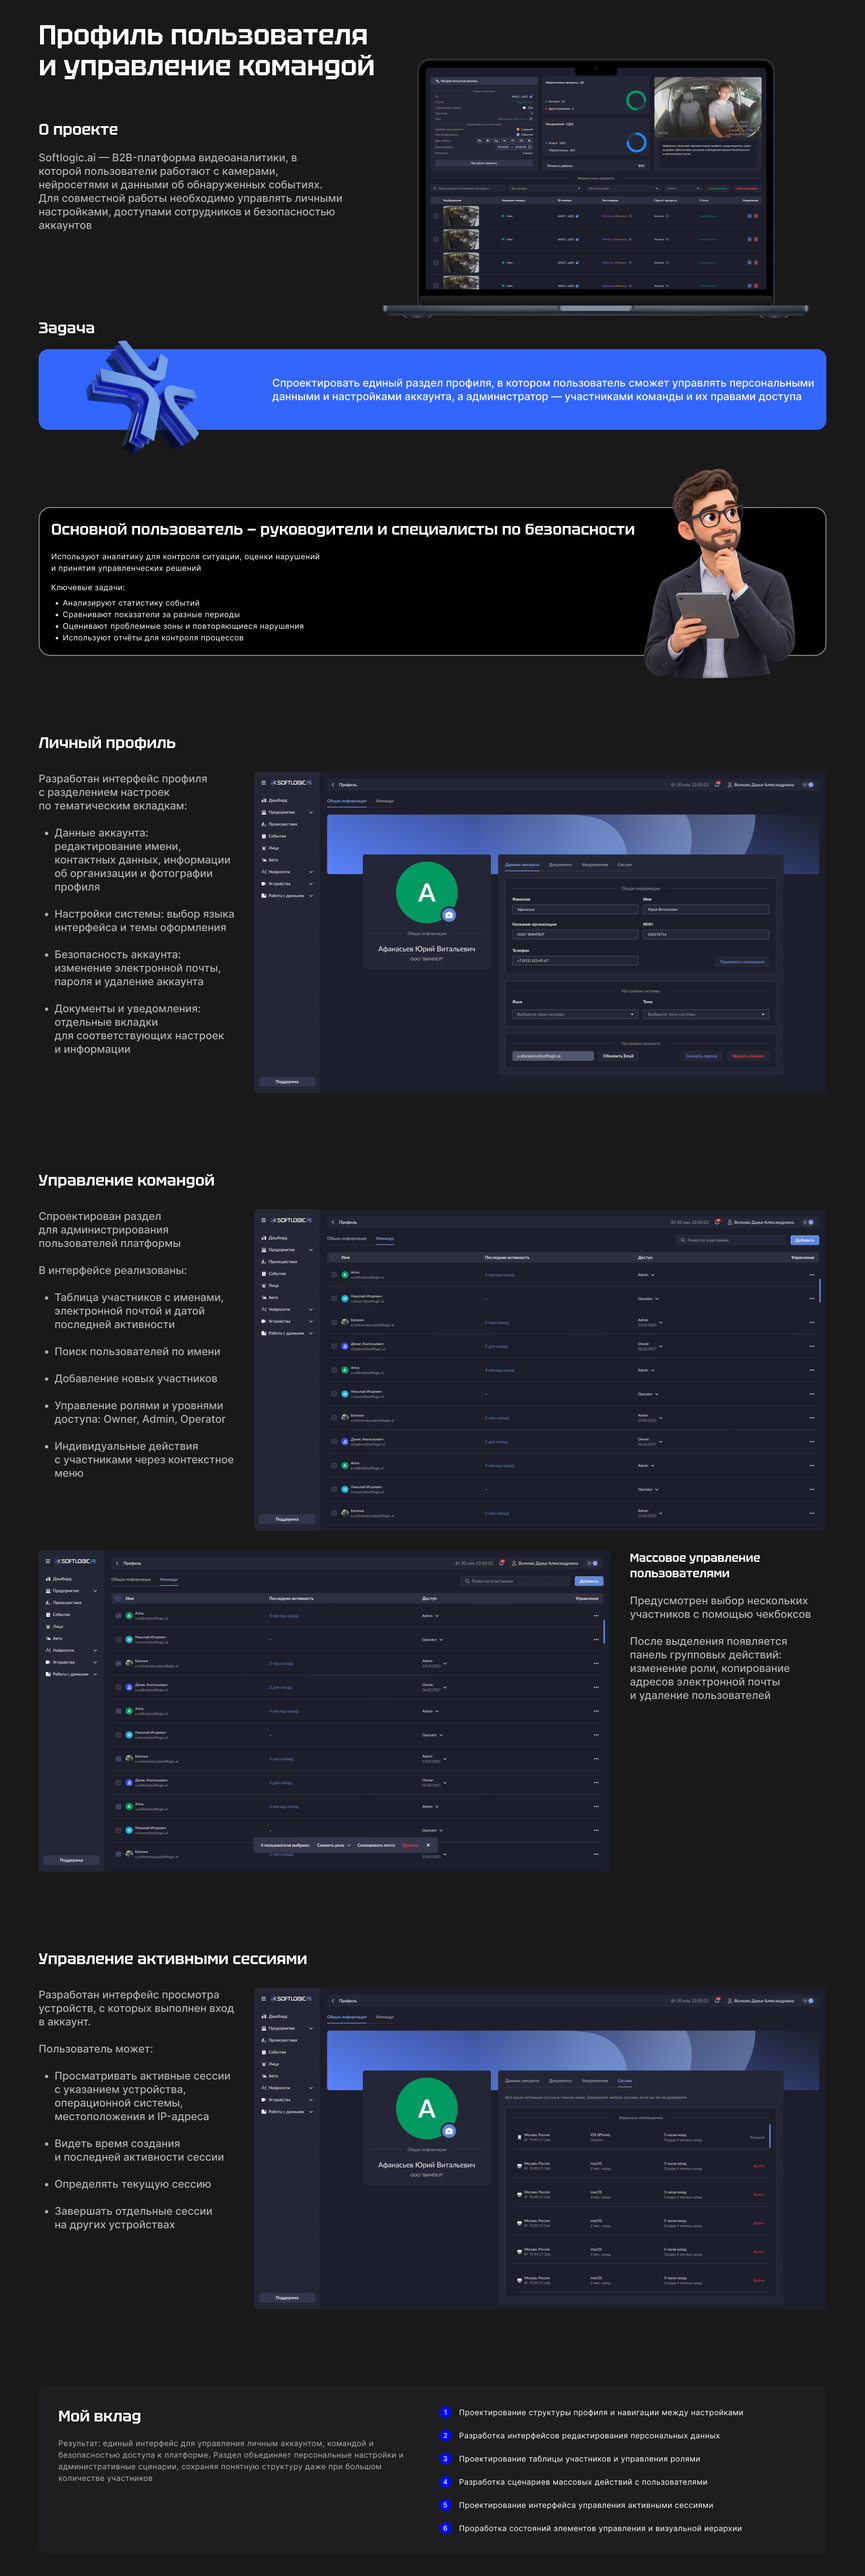
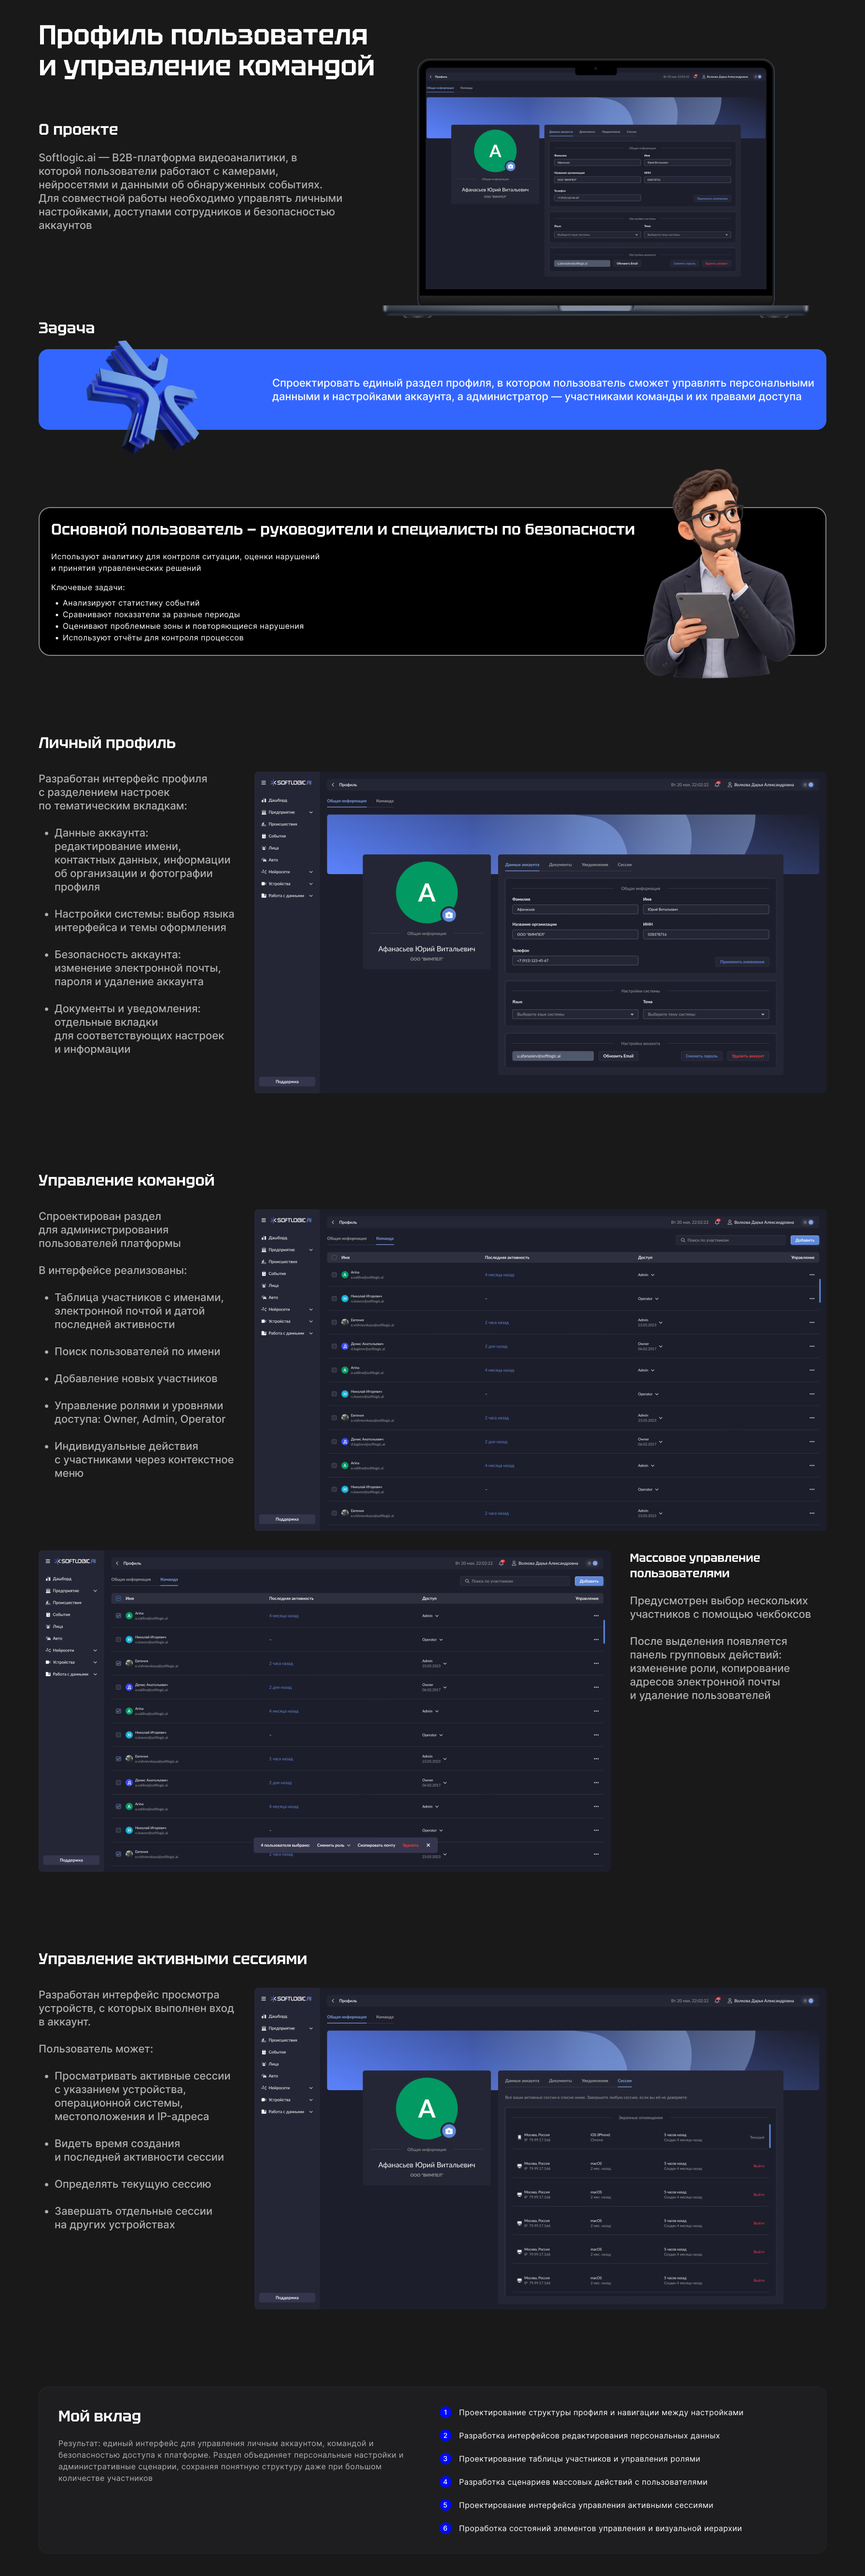
Implement new Figma mobile screens

Changed region(s): [[0.4688, 0.0311, 0.9062, 0.1245]]

diff --git a/portfolio-work/app/work/[slug]/page.tsx b/portfolio-work/app/work/[slug]/page.tsx
@@ -55,6 +55,7 @@ const softlogicCards=[
 ];
 
 function SoftlogicCase(){return <main className={styles.softlogicPage}>
+  <div className={styles.softMobileFrame}><div className={styles.caseNav}><SiteHeader/></div><img src="/portfolio/case-softlogic-mobile.png" alt="Softlogic.AI. Мобильная версия кейса из Figma"/><div className={styles.softMobileLinks}>{softlogicCards.map(([slug,title],index)=><Link href={`/work/softlogic-ai?detail=${slug}`} scroll={false} aria-label={title} key={slug} style={{top:`${76.22+index*3.724}%`}}/>)}</div></div>
   <section className={styles.softHero}><div className="container"><SiteHeader/><div className={styles.softTitle}><h1>Softlogic.AI</h1><h2>{nbsp('B2B-платформа видеоаналитики на основе компьютерного зрения')}</h2><div>{['Product design','B2B / Enterprise','UX/UI Design','Computer Vision','Data Visualization'].map((tag,index)=><span className={index<2?styles.blueTag:undefined} key={tag}>{tag}</span>)}</div></div><div className={styles.softAbout}><div className={styles.laptop}><img src="/portfolio/softlogic-laptop.png" alt="Интерфейс платформы Softlogic.AI на экране ноутбука"/></div><h3>{nbsp('О проекте')}</h3><div><p>{nbsp('Softlogic.ai разрабатывала решения на основе компьютерного зрения для автоматизации мониторинга и анализа видеопотока')}</p><p>{nbsp('Платформа позволяла подключать камеры, обрабатывать видеоданные с помощью нейросетей, обнаруживать события и работать с результатами видеоаналитики через интерфейс системы')}</p><p>{nbsp('На базе единой платформы создавались решения для разных бизнес-задач: от распознавания лиц и контроля зон до мониторинга поведения водителей и безопасности на производстве.')}</p><p>{nbsp('В зависимости от потребностей клиента использовался определённый набор функциональных возможностей платформы')}</p><div className={styles.softMeta}><div><strong>Роль</strong><span>Продуктовый дизайнер</span><span>UX-исследователь</span></div><div><strong>Инструменты</strong><span>Figma</span><span>FigJam</span><span>Notion</span></div><div><strong>Scope</strong><span>Исследование</span><span>Прототип</span><span>UX-тесты</span></div></div></div></div></div></section>
   <section className={`container ${styles.softSection}`}><h2>{nbsp('Контекст и бизнес-задача')}</h2><div className={styles.contextBlock}><div><p>{nbsp('Компьютерное зрение позволяет автоматически анализировать видеопоток и выявлять события, которые человеку пришлось бы отслеживать вручную')}</p><p>{nbsp('Однако обнаружение события — только часть процесса. Пользователю также необходимо понять, что произошло, проверить результат распознавания, найти источник события и при необходимости изучить видеозапись или данные объекта')}</p><p>{nbsp('При этом сценарии использования платформы различались в зависимости от отрасли и задач клиента')}</p><p>{nbsp('Задача проекта заключалась в создании масштабируемой UX/UI-архитектуры платформы.')}</p></div><img src="/portfolio/softlogic-context-visual.png" alt="Интерфейс видеоаналитики Softlogic.AI"/></div></section>
   <section className={`container ${styles.softSection}`}><h2>Пользователи</h2><img className={`${styles.wideAsset} ${styles.desktopAsset}`} src="/portfolio/softlogic-users.png" alt="Операторы мониторинга, руководители и специалисты по безопасности, технические специалисты и администраторы"/><div className={`${styles.mobileSlices} ${styles.userSlices}`} aria-label="Пользователи платформы"><span/><span/><span/></div></section>
@@ -66,7 +67,7 @@ function SoftlogicCase(){return <main className={styles.softlogicPage}>
 
 function FigmaFrameCase({slug,title}:{slug:'smart-city'|'idm'|'reporting';title:string}){
   const desktop=`/portfolio/case-${slug}.png`;
-  return <main className={styles.figmaCase} aria-label={title}><div className={styles.caseNav}><SiteHeader/></div><picture>{slug==='smart-city'&&<source media="(max-width: 600px)" srcSet="/portfolio/case-smart-city-mobile.png"/>}<img src={desktop} alt={`${title}. Полный кейс из Figma`}/></picture><Link className={styles.caseHomeLink} href="/" aria-label="Вернуться на главную"/><nav className={styles.caseFooterLinks} aria-label="Навигация в футере"><Link href="/">Главная</Link><Link href="/#about">Резюме</Link><Link href="/#contacts">Контакты</Link></nav></main>;
+  return <main className={styles.figmaCase} aria-label={title}><div className={styles.caseNav}><SiteHeader/></div><picture>{slug==='smart-city'&&<source media="(max-width: 600px)" srcSet="/portfolio/case-smart-city-mobile.png"/>}{slug==='reporting'&&<source media="(max-width: 600px)" srcSet="/portfolio/case-reporting-mobile.png"/>}<img src={desktop} alt={`${title}. Полный кейс из Figma`}/></picture><Link className={styles.caseHomeLink} href="/" aria-label="Вернуться на главную"/><nav className={styles.caseFooterLinks} aria-label="Навигация в футере"><Link href="/">Главная</Link><Link href="/#about">Резюме</Link><Link href="/#contacts">Контакты</Link></nav></main>;
 }
 
 export default async function WorkPage({params}:{params:Promise<{slug:string}>}){

diff --git a/portfolio-work/components/Drawer.tsx b/portfolio-work/components/Drawer.tsx
@@ -29,12 +29,15 @@ export function Drawer() {
   const assets:Record<string,string>={
     'face-recognition':'/portfolio/drawer-face-recognition.png','camera-management':'/portfolio/drawer-camera-management.png','video-analytics':'/portfolio/drawer-video-analytics.png','report-builder':'/portfolio/drawer-report-builder.png','user-profile':'/portfolio/drawer-user-profile.png'
   };
+  const mobileAssets:Record<string,string>={
+    'face-recognition':'/portfolio/drawer-face-recognition-mobile.png','camera-management':'/portfolio/drawer-camera-management-mobile.png','video-analytics':'/portfolio/drawer-video-analytics-mobile.png','report-builder':'/portfolio/drawer-report-builder-mobile.png','user-profile':'/portfolio/drawer-user-profile-mobile.png'
+  };
   const close=()=>router.replace(pathname,{scroll:false});
   return <div className={styles.backdrop} onMouseDown={(e)=>{if(e.target===e.currentTarget)close()}}>
     <section id="project-drawer" className={`${styles.panel} ${styles.figmaPanel}`} role="dialog" aria-modal="true" aria-labelledby="drawer-title" aria-describedby="drawer-description">
       <h2 id="drawer-title" className={styles.srOnly}>{item.title}</h2><p id="drawer-description" className={styles.srOnly}>{item.lead}</p>
       <header className={styles.figmaHeader}><span>КЕЙСЫ&nbsp;&nbsp;/&nbsp;&nbsp;SOFTLOGIC.AI&nbsp;&nbsp;/&nbsp;&nbsp;<strong>{item.title}</strong></span><button ref={closeRef} className={styles.figmaClose} onClick={close} aria-label="Закрыть кейс"><X size={22}/></button></header>
-      <div className={styles.figmaScroll}><img className={styles.figmaScreen} src={assets[item.slug]} alt={`${item.title}. Экран кейса из Figma`}/></div>
+      <div className={styles.figmaScroll}><picture><source media="(max-width: 760px)" srcSet={mobileAssets[item.slug]}/><img className={styles.figmaScreen} src={assets[item.slug]} alt={`${item.title}. Экран кейса из Figma`}/></picture></div>
       <footer className={styles.figmaFooter}><button onClick={()=>router.replace(`${pathname}?detail=${next.slug}`,{scroll:false})} aria-label={`Следующий кейс: ${next.title}`}>СЛЕДУЮЩИЙ КЕЙС</button><span>{next.title}</span></footer>
     </section>
   </div>;

diff --git a/portfolio-work/app/work/[slug]/page.module.css b/portfolio-work/app/work/[slug]/page.module.css
@@ -10,3 +10,5 @@
 @media(max-width:900px){.softSection{overflow:visible}.wideAsset{width:100%;min-width:0}.softCards{grid-template-columns:1fr;overflow:visible;gap:20px}.softCards a,.softCards img{width:100%}.contextBlock{grid-template-columns:1fr}.contextBlock>img{height:auto;min-height:280px}.softMeta{gap:20px}.footer{padding-bottom:110px}}
 .mobileSlices{display:none}.roleCard{display:grid;grid-template-columns:1fr 1fr;gap:38px 72px;padding:48px 64px;border-radius:20px;background:linear-gradient(105deg,#202044 0%,#202024 55%,#1010e8 100%)}.roleCard h2{grid-column:1/-1;margin:0;font:600 36px/1.1 var(--font-heading)}.roleCard p{margin:0 0 18px;line-height:1.45}.roleCard ul{margin:0;padding-left:20px;line-height:1.65}.roleCard li::marker{color:#1530ff}
 @media(max-width:900px){.desktopAsset{display:none}.mobileSlices{display:grid;grid-template-columns:1fr;gap:14px}.mobileSlices span{display:block;width:100%;border-radius:14px;background-repeat:no-repeat;background-color:#111}.mobileSlices span:nth-child(1){background-position:left center}.mobileSlices span:nth-child(2){background-position:center center}.mobileSlices span:nth-child(3){background-position:right center}.userSlices span{aspect-ratio:1.08;background-image:url('/portfolio/softlogic-users.png');background-size:300% 100%}.flowSlices span{aspect-ratio:1.55;background-image:url('/portfolio/softlogic-flow.png');background-size:300% 100%}.roleCard{grid-template-columns:1fr;gap:10px;padding:28px 22px}.roleCard h2{grid-column:auto;font-size:30px;margin-bottom:14px}.roleCard p,.roleCard li{font-size:14px}}
+.softMobileFrame{display:none;position:relative}.softMobileFrame>img{display:block;width:100%;height:auto}.softMobileLinks{position:absolute;inset:0}.softMobileLinks a{position:absolute;left:5.09%;width:89.82%;height:3.43%;z-index:2}.softMobileLinks a:focus-visible{outline:2px solid #fff}
+@media(max-width:900px){.softMobileFrame{display:block}.softlogicPage>.softHero,.softlogicPage>.softSection,.softlogicPage>.more,.softlogicPage>.footer{display:none}}
